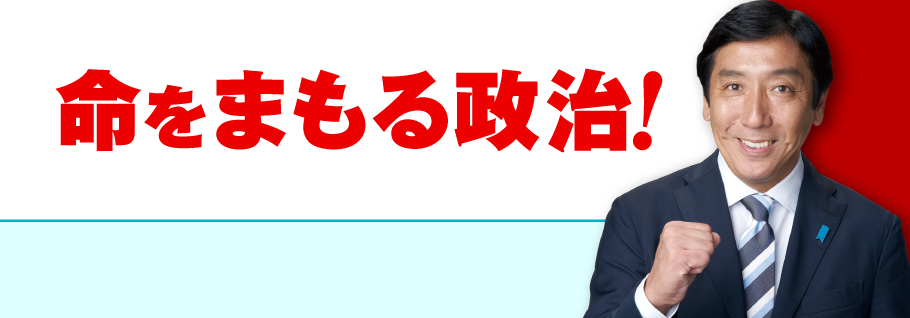
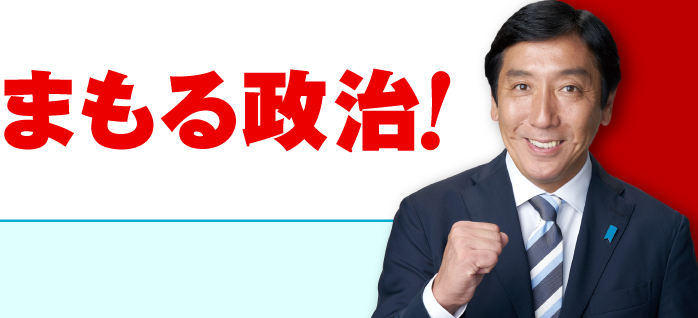
2ndc

diff --git a/src/components/HeroImage.tsx b/src/components/HeroImage.tsx
@@ -8,12 +8,12 @@ export default function HeroImage() {
         src="/main_00_pc.png"
         alt="菅原一秀ヒーローバナー"
         fill
-        className="object-cover opacity-85"
+        className="object-cover object-left md:object-center opacity-85 transition-all duration-500"
         priority
       />
-      {/* 左から黒グラデでテキスト映え（顔が中央ならやや右寄せ） */}
+      {/* 左から黒グラデでテキスト映え */}
       <div className="absolute inset-0 bg-gradient-to-r from-black/55 via-transparent to-blue-900/10" />
-      {/* 下から青〜白グラデで“リッチな光彩”感 */}
+      {/* 下から青〜白グラデ */}
       <div className="absolute inset-0 bg-gradient-to-t from-blue-200/15 via-transparent to-transparent pointer-events-none" />
     </div>
   );
